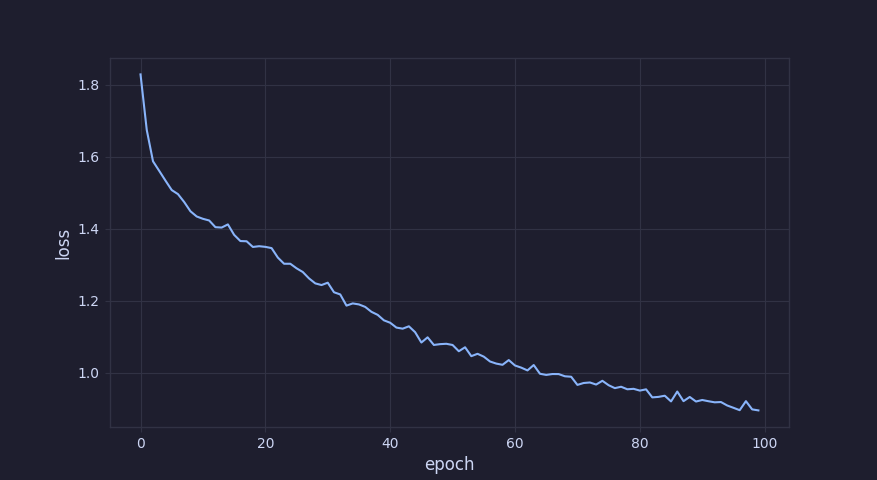
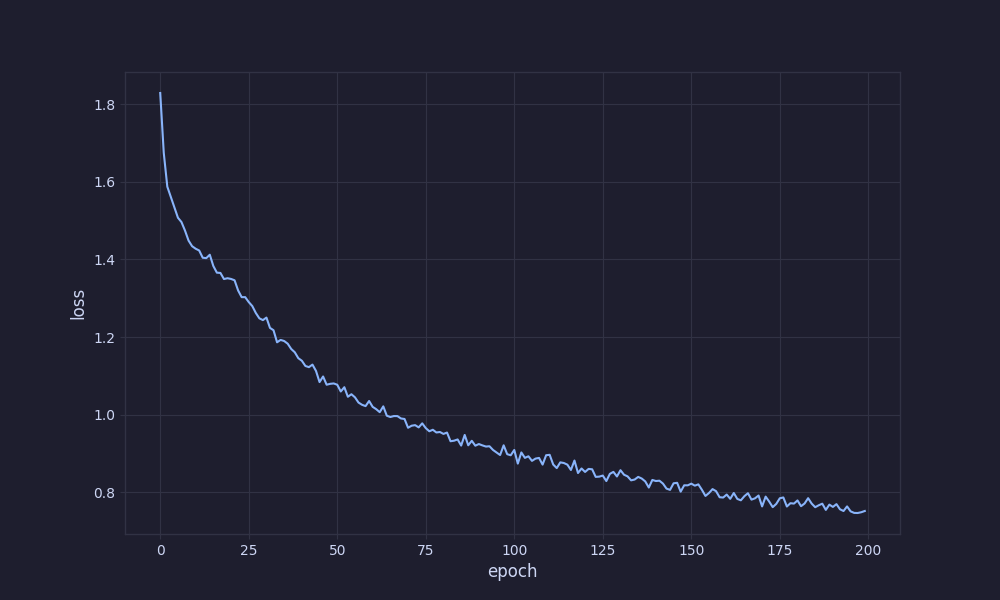
fix mlp plot

diff --git a/src/mlp.py b/src/mlp.py
@@ -132,9 +132,9 @@ for word in words:
 lossi.pop()
 lossi = jnp.mean(jnp.reshape(jnp.array(lossi), (-1, 100)), 1)
 
+plt.figure(figsize=(10, 6))
 plt.style.use(["ggplot", catppuccin.PALETTE.mocha.identifier])
 plt.ylabel("loss")
 plt.xlabel("epoch")
 plt.plot(lossi)
-# plt.show()
 plt.savefig("test_mlp")
